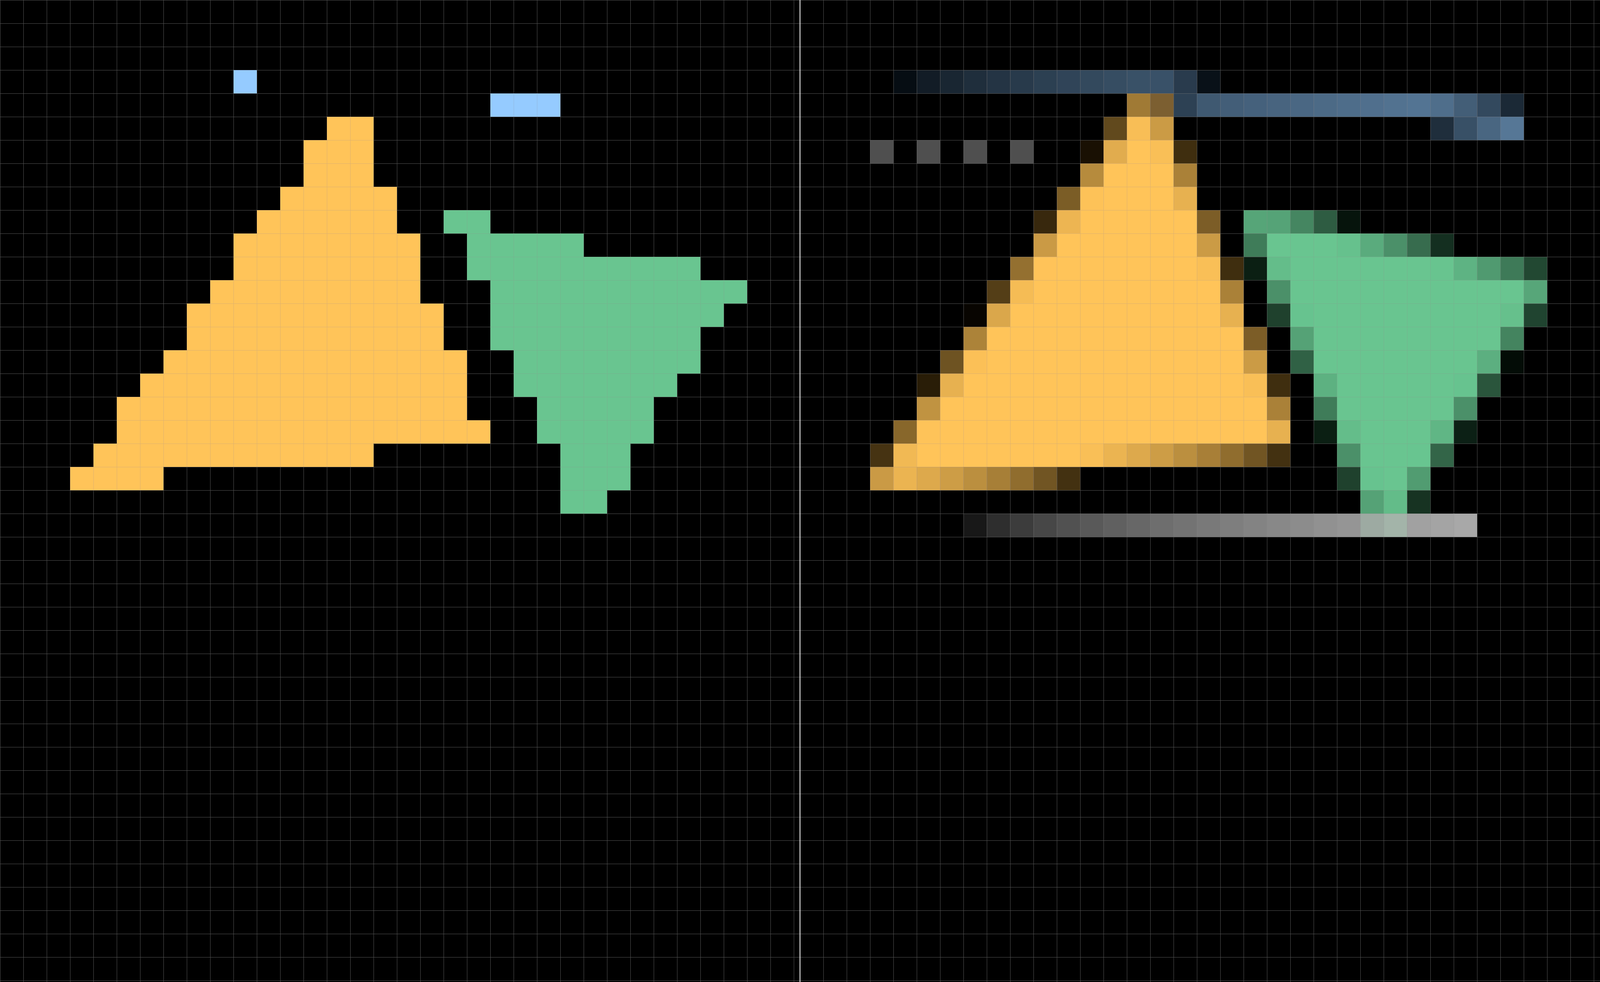
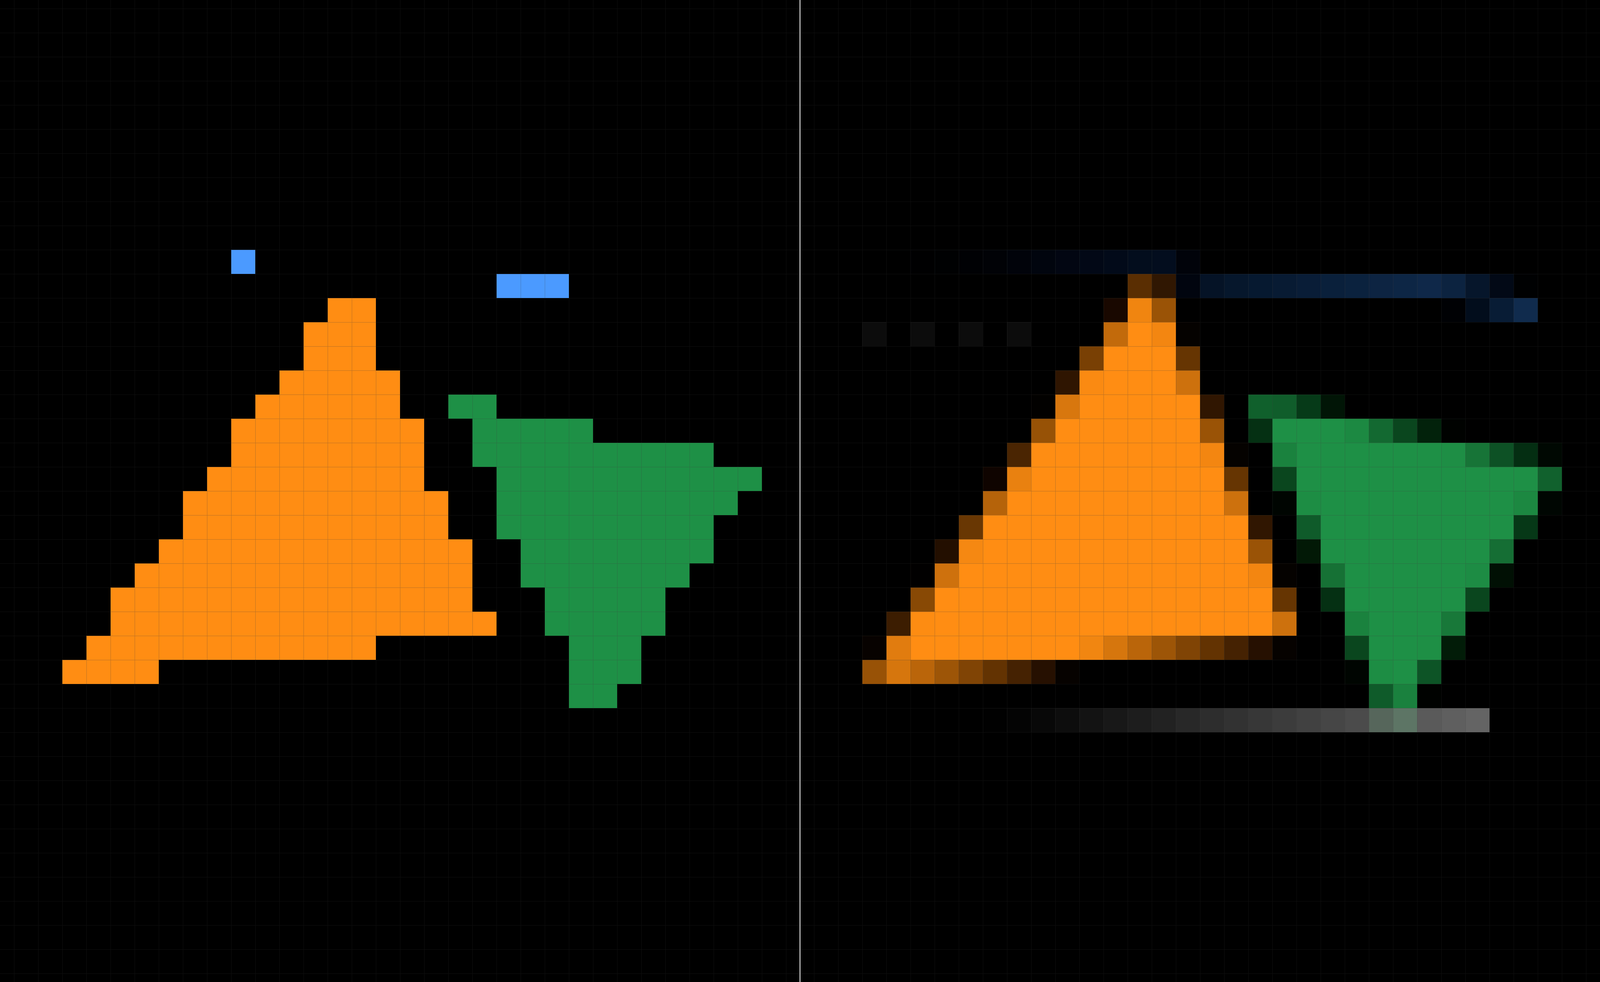
Exact coverage GPU demo: centre the scene, decode for the sRGB target; recapture
Paper check: our (d/r)^sigma window is the paper's Eq. 2, ReLU(-phi/r)^sigma.

diff --git a/public/docs/assets/agent_transcripts/exact_triangle_coverage/document.md b/public/docs/assets/agent_transcripts/exact_triangle_coverage/document.md
@@ -110,7 +110,7 @@ with #include "coverage/triangle.glsl". The triangles and the compositing are in
 fragment property.
 
 ```edn [field-box id="coverage_gpu" role="properties"]
[2 lines of base64/hex data omitted]
 ```
 
 ```kotlin [field-property box="coverage_gpu" name="code" path="coverage_gpu_code_.kt"]
@@ -181,12 +181,14 @@ void main() {
     float w = pc.viewport.x;
     float h = pc.viewport.y;
     float halfW = floor(w * 0.5);
-    float k = pc.viewport.z > 0.5 ? pc.viewport.z : floor(min(halfW / 34.0, h / 26.0));
+    float k = pc.viewport.z > 0.5 ? pc.viewport.z : floor(min(halfW / 33.0, h / 25.0));
     k = max(k, 1.0);
     float sigma = pc.viewport.w;
 
     bool exact = gl_FragCoord.x >= halfW;
-    vec2 local = gl_FragCoord.xy - vec2(exact ? halfW + k : k, k);
+    // Centre the 32 x 24 scene in each half.
+    vec2 origin = floor(vec2(halfW - 32.0 * k, h - 24.0 * k) * 0.5);
+    vec2 local = gl_FragCoord.xy - vec2(exact ? halfW + origin.x : origin.x, origin.y);
     vec2 cell = floor(local / k);
 
     vec3 c = vec3(0.0);
@@ -203,7 +205,8 @@ void main() {
     vec2 f = local - cell * k;
     if (k >= 6.0 && (f.x < 1.0 || f.y < 1.0)) c = mix(c, vec3(0.25), 0.35);
     if (abs(gl_FragCoord.x - halfW) < 1.5) c = vec3(1.0);
-    color = vec4(c, 1.0);
+    // The window target is sRGB: decode so the colours show as the CPU figure's stored values.
+    color = vec4(pow(c, vec3(2.2)), 1.0);
 }
 ```
 

diff --git a/dev_docs/TRIANGLE_COVERAGE.md b/dev_docs/TRIANGLE_COVERAGE.md
@@ -6,8 +6,10 @@ Code: `src/jvmMain/kotlin/afield/graphics/render/TriangleCoverage.kt` (Kotlin + 
 `public/docs/afield_four_graphics.md#exact-triangle-coverage`. Demo: `dev_docs/agents/transcripts/exact_triangle_coverage.yaml`.
 Method after ATS (arXiv 2611.22512, CC BY-NC-ND): written from the description only.
 
-Window: `(d/r)^sigma`, d = distance to nearest edge, r = inradius. This normalisation is our
-reading of the method; the paper's exact parameterisation may differ.
+Window: `(d/r)^sigma`, d = distance to nearest edge, r = inradius. Checked 2026-11-19 against the
+paper: its Eq. 2 is `I(p) = ReLU(-phi(p)/r)^sigma` with `phi = max_k (n_k.p + O_k)` (negative inside),
+which is the same function; its whole-triangle integral `r L_k/((s+1)(s+2))` per sub-triangle and the
+cull test `o * 2A/((s+1)(s+2)) < lambda` match ours.
 
 ## Numbers (2026-11-19)
 
@@ -23,6 +25,5 @@ reading of the method; the paper's exact parameterisation may differ.
 ## Traps
 - `RectSLCoverage.clipConvexToBox` is the shared clipper; do not add a second.
 - Without gradients: vertex derivatives the paper derives are not implemented.
-- The GPU capture is brighter than the CPU figure: the window target is sRGB, the CPU Img is shown
-  as stored values. Same geometry, same coverage pattern.
-- Fat-pixel fit uses `min(halfW/34, h/26)`, so a tall window leaves empty space below the scene.
+- The window target is sRGB, so the demo shader writes `pow(c, 2.2)` to make its colours match the CPU
+  figure, which shows stored values (compositing happens in display space on both).
